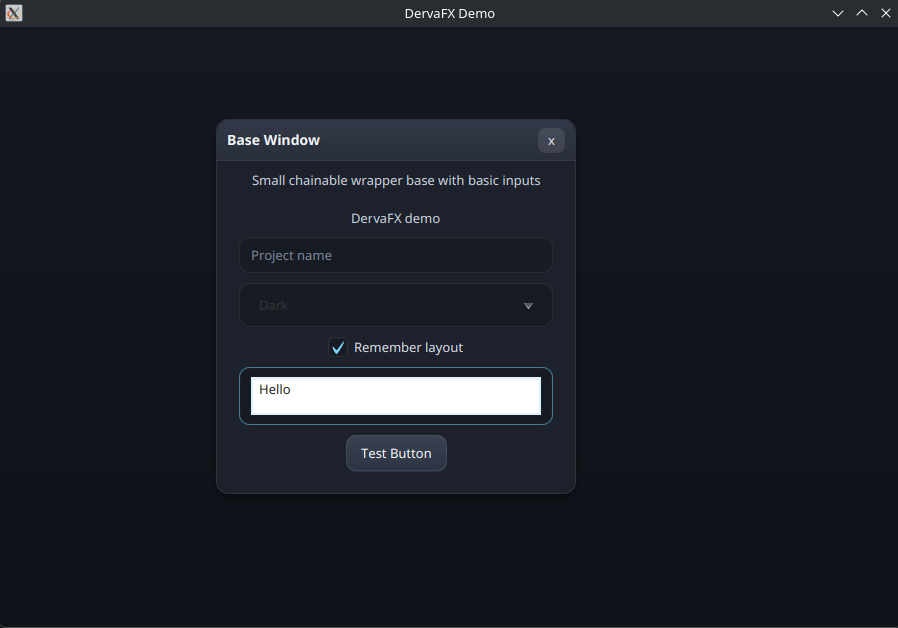
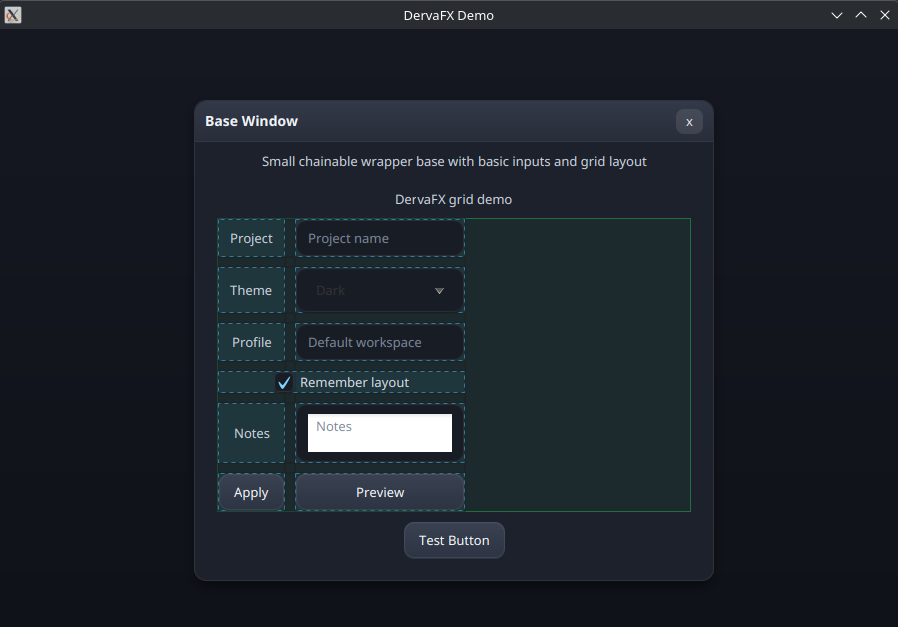
Add grid layout support and update demo app to utilize grid

diff --git a/src/main/resources/com/princeofcookies/dervafx/dervafx-dark.css b/src/main/resources/com/princeofcookies/dervafx/dervafx-dark.css
@@ -4,8 +4,22 @@
 
 .dervafx-panel,
 .dervafx-vbox,
-.dervafx-hbox {
+.dervafx-hbox,
+.dervafx-grid {
     -fx-background-color: transparent;
+}
+
+.dervafx-grid-debug {
+    -fx-background-color: rgba(34, 197, 94, 0.06);
+    -fx-border-color: rgba(34, 197, 94, 0.45);
+    -fx-border-width: 1;
+}
+
+.dervafx-grid-cell-debug {
+    -fx-background-color: rgba(56, 189, 248, 0.08);
+    -fx-border-color: rgba(56, 189, 248, 0.55);
+    -fx-border-width: 1;
+    -fx-border-style: segments(4, 4);
 }
 
 .dervafx-window {

diff --git a/src/main/java/com/princeofcookies/dervafx/DervaGrid.java b/src/main/java/com/princeofcookies/dervafx/DervaGrid.java
@@ -1,0 +1,109 @@
+package com.princeofcookies.dervafx;
+
+import javafx.geometry.Insets;
+import javafx.geometry.Pos;
+import javafx.scene.layout.GridPane;
+
+public class DervaGrid extends DervaElement<DervaGrid> {
+    private final GridPane grid;
+    private boolean debugGrid;
+
+    public DervaGrid() {
+        super(new GridPane());
+        this.grid = (GridPane) contentNode();
+        grid.getStyleClass().add("dervafx-grid");
+        grid.setHgap(8);
+        grid.setVgap(8);
+    }
+
+    public DervaGrid add(DervaElement<?> child, int column, int row) {
+        if (child != null) {
+            grid.add(child.getNode(), column, row);
+            applyDebugStyle(child);
+        }
+        return this;
+    }
+
+    public DervaGrid add(DervaElement<?> child, int column, int row, int columnSpan, int rowSpan) {
+        if (child != null) {
+            grid.add(child.getNode(), column, row, columnSpan, rowSpan);
+            applyDebugStyle(child);
+        }
+        return this;
+    }
+
+    public DervaGrid remove(DervaElement<?> child) {
+        if (child != null) {
+            grid.getChildren().remove(child.getNode());
+        }
+        return this;
+    }
+
+    public DervaGrid clear() {
+        grid.getChildren().clear();
+        return this;
+    }
+
+    public DervaGrid hgap(double value) {
+        grid.setHgap(value);
+        return this;
+    }
+
+    public DervaGrid vgap(double value) {
+        grid.setVgap(value);
+        return this;
+    }
+
+    public DervaGrid debugGrid(boolean value) {
+        this.debugGrid = value;
+        grid.setGridLinesVisible(value);
+        if (value) {
+            if (!grid.getStyleClass().contains("dervafx-grid-debug")) {
+                grid.getStyleClass().add("dervafx-grid-debug");
+            }
+        } else {
+            grid.getStyleClass().remove("dervafx-grid-debug");
+        }
+        grid.getChildren().forEach(node -> {
+            if (value) {
+                if (!node.getStyleClass().contains("dervafx-grid-cell-debug")) {
+                    node.getStyleClass().add("dervafx-grid-cell-debug");
+                }
+            } else {
+                node.getStyleClass().remove("dervafx-grid-cell-debug");
+            }
+        });
+        return this;
+    }
+
+    @Override
+    public DervaGrid spacing(double value) {
+        return hgap(value).vgap(value);
+    }
+
+    @Override
+    public DervaGrid padding(Insets padding) {
+        grid.setPadding(padding == null ? Insets.EMPTY : padding);
+        return this;
+    }
+
+    @Override
+    public DervaGrid padding(double value) {
+        grid.setPadding(new Insets(value));
+        return this;
+    }
+
+    public DervaGrid alignment(Pos alignment) {
+        grid.setAlignment(alignment == null ? Pos.TOP_LEFT : alignment);
+        return this;
+    }
+
+    private void applyDebugStyle(DervaElement<?> child) {
+        if (!debugGrid || child == null) {
+            return;
+        }
+        if (!child.getNode().getStyleClass().contains("dervafx-grid-cell-debug")) {
+            child.getNode().getStyleClass().add("dervafx-grid-cell-debug");
+        }
+    }
+}

diff --git a/src/main/java/com/princeofcookies/dervafx/demo/DemoApp.java b/src/main/java/com/princeofcookies/dervafx/demo/DemoApp.java
@@ -1,6 +1,7 @@
 package com.princeofcookies.dervafx.demo;
 
 import com.princeofcookies.dervafx.DervaFX;
+import com.princeofcookies.dervafx.DervaGrid;
 import com.princeofcookies.dervafx.DervaPanel;
 import com.princeofcookies.dervafx.DervaRoot;
 import com.princeofcookies.dervafx.DervaVBox;
@@ -24,28 +25,42 @@ public final class DemoApp extends Application {
         AnchorPane.setBottomAnchor(root.getNode(), 0.0);
         AnchorPane.setLeftAnchor(root.getNode(), 0.0);
 
-        DervaPanel panel = DervaFX.panel()
-                .padding(new Insets(12))
-                .spacing(10)
-                .add(DervaFX.label("DervaFX demo"))
-                .add(DervaFX.textField().prompt("Project name"))
+        DervaGrid settingsGrid = DervaFX.grid()
+                .hgap(10)
+                .vgap(10)
+                .debugGrid(true)
+                .add(DervaFX.label("Project"), 0, 0)
+                .add(DervaFX.textField().prompt("Project name").fillWidth(), 1, 0)
+                .add(DervaFX.label("Theme"), 0, 1)
                 .add(DervaFX.comboBox()
                         .prompt("Theme")
                         .item("Dark")
                         .item("Light")
-                        .value("Dark"))
-                .add(DervaFX.checkBox("Remember layout").selected(true))
-                .add(DervaFX.textArea().prompt("Notes").size(0, 92))
+                        .value("Dark")
+                        .fillWidth(), 1, 1)
+                .add(DervaFX.label("Profile"), 0, 2)
+                .add(DervaFX.textField().prompt("Default workspace").fillWidth(), 1, 2)
+                .add(DervaFX.checkBox("Remember layout").selected(true), 0, 3, 2, 1)
+                .add(DervaFX.label("Notes"), 0, 4)
+                .add(DervaFX.textArea().prompt("Notes").size(0, 92).fillWidth(), 1, 4)
+                .add(DervaFX.button("Apply"), 0, 5)
+                .add(DervaFX.button("Preview").fillWidth(), 1, 5);
+
+        DervaPanel panel = DervaFX.panel()
+                .padding(new Insets(12))
+                .spacing(10)
+                .add(DervaFX.label("DervaFX grid demo"))
+                .add(settingsGrid)
                 .add(DervaFX.button("Test Button").onClick(() -> System.out.println("Clicked test button")));
 
         DervaVBox stack = DervaFX.vbox()
                 .spacing(8)
-                .add(DervaFX.label("Small chainable wrapper base with basic inputs"))
+                .add(DervaFX.label("Small chainable wrapper base with basic inputs and grid layout"))
                 .add(panel);
 
         DervaWindow window = DervaFX.window("Base Window")
                 .position(24, 24)
-                .size(360, 220)
+                .size(520, 360)
                 .add(stack);
 
         root.add(window);

diff --git a/src/main/java/com/princeofcookies/dervafx/DervaFX.java b/src/main/java/com/princeofcookies/dervafx/DervaFX.java
@@ -22,6 +22,10 @@ public final class DervaFX {
         return new DervaHBox();
     }
 
+    public static DervaGrid grid() {
+        return new DervaGrid();
+    }
+
     public static DervaWindow window(String title) {
         return new DervaWindow(title);
     }

diff --git a/README.md b/README.md
@@ -8,6 +8,7 @@ Current scope:
 
 - Small chainable wrapper base
 - Basic containers and controls
+- Basic grid layout support
 - Basic text, toggle, and select inputs
 - One simple theme manager
 - One minimal demo app
@@ -40,12 +41,13 @@ DervaWindow window = DervaFX.window("Base Window")
     .position(24, 24);
 
 window.add(
-    DervaFX.vbox()
-        .spacing(8)
-        .add(DervaFX.label("DervaFX demo"))
-        .add(DervaFX.textField().prompt("Project name"))
-        .add(DervaFX.checkBox("Remember layout"))
-        .add(DervaFX.button("Click me"))
+    DervaFX.grid()
+        .hgap(8)
+        .vgap(8)
+        .add(DervaFX.label("Project"), 0, 0)
+        .add(DervaFX.textField().prompt("Project name"), 1, 0)
+        .add(DervaFX.checkBox("Remember layout"), 0, 1, 2, 1)
+        .add(DervaFX.button("Click me"), 1, 2)
 );
 
 root.add(window);